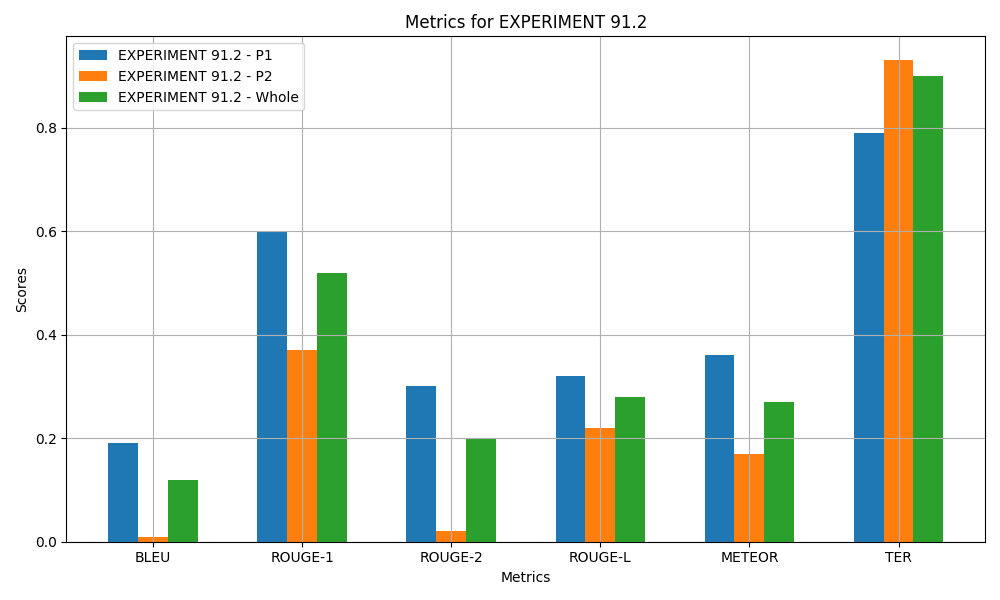
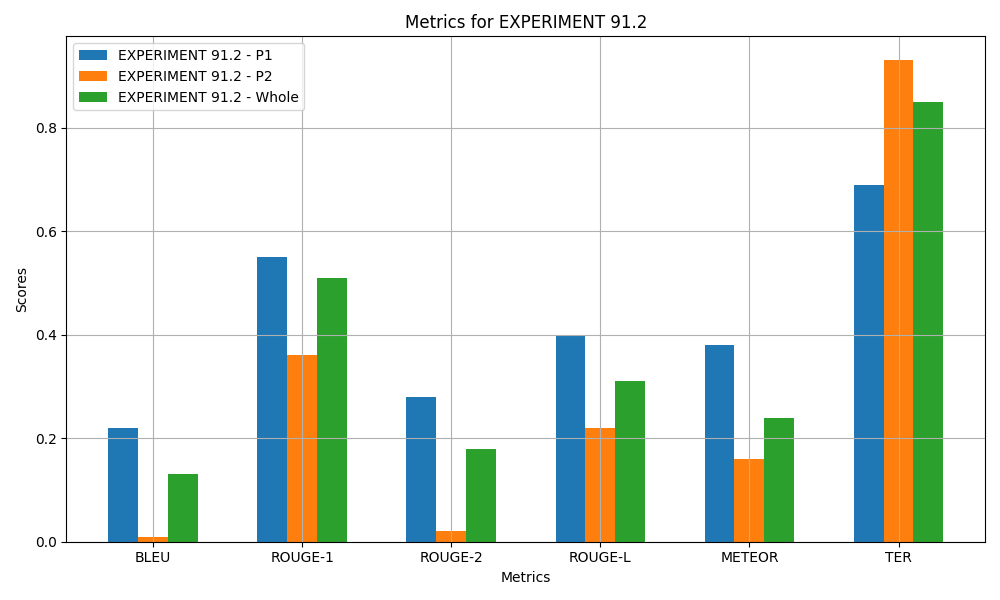
commit

diff --git a/src/utils/evaluation_algo.py b/src/utils/evaluation_algo.py
@@ -27,43 +27,45 @@ def calculate_ter(reference, hypothesis):
     score = ter.sentence_score(hypothesis, [reference])
     return round(score.score / 100, 2)
 
-# Modified Function: Ethical Alignment Score using Fine-tuned BERT for Social Work Ethics
 def evaluate_ethical_alignment(hypothesis):
     inputs = tokenizer(hypothesis, return_tensors='tf', truncation=True, padding=True, max_length=512)
     outputs = model(inputs)
     scores = outputs.logits[0].numpy()
-    ethical_score = scores[1]
+    ethical_score = 1 / (1 + np.exp(-scores[1]))
     return round(ethical_score, 2)
 
-# Modified Function: Sentiment Distribution Score using an Emotion Detection Model
 def evaluate_sentiment_distribution(hypothesis):
     emotion_analysis = emotion_model(hypothesis)
-    relevant_emotions = ['joy', 'sadness', 'anger', 'fear', 'trust', 'surprise']
-    emotion_scores = {score['label']: score['score'] for score in emotion_analysis[0] if score['label'] in relevant_emotions}
-    sentiment_score = sum(emotion_scores.values()) / len(emotion_scores) if emotion_scores else 0
-    return round(sentiment_score, 2)
+    emotion_scores = {score['label']: score['score'] for score in emotion_analysis[0] if score['label'] in RELEVANT_EMOTIONS}
+    if not emotion_scores:
+        return DEFAULT_SENTIMENT_SCORE
+    balanced_score = sum(emotion_scores.values()) / len(RELEVANT_EMOTIONS)
+    max_emotion = max(emotion_scores.values(), default=0)
+    min_emotion = min(emotion_scores.values(), default=0)
+    if abs(max_emotion - min_emotion) > SENTIMENT_BALANCE_PENALTY:
+        balanced_score *= 0.95
+    return round(balanced_score, 2)
 
-# New Function: Inclusivity Score using Lexicon
 def evaluate_inclusivity_score(hypothesis):
     words = word_tokenize(hypothesis.lower())
     inclusive_count = sum(1 for word in words if word in INCLUSIVITY_LEXICON)
-    inclusivity_score = inclusive_count / len(words) if len(words) > 0 else 0
-    return round(inclusivity_score, 2)
+    return round(inclusive_count / len(words), 2) if len(words) > 0 else 0
 
-# Modified Function: Complexity Score using Readability Metrics
 def evaluate_complexity_score(hypothesis):
     sentences = nltk.sent_tokenize(hypothesis)
     avg_sentence_length = sum(len(word_tokenize(sentence)) for sentence in sentences) / len(sentences) if sentences else 0
     total_words = sum(len(word_tokenize(sentence)) for sentence in sentences)
     cmudict = nltk.corpus.cmudict.dict()
-    
     def count_syllables(word):
         phonemes_list = cmudict.get(word.lower(), [[0]])
         return sum(1 for phoneme in phonemes_list[0] if isinstance(phoneme, str) and phoneme[-1].isdigit())
-    
     total_syllables = sum(count_syllables(word) for word in word_tokenize(hypothesis))
     fk_score = 206.835 - 1.015 * (total_words / len(sentences)) - 84.6 * (total_syllables / total_words) if total_words > 0 else 0
-    complexity_score = (avg_sentence_length + fk_score) / 2
+    complexity_score = max(
+        COMPLEXITY_MIN_SCORE, 
+        (COMPLEXITY_AVG_SENTENCE_LENGTH_WEIGHT * avg_sentence_length +
+         COMPLEXITY_FK_SCORE_WEIGHT * fk_score) / 2
+    )
     return round(complexity_score, 2)
 
 # Main function to evaluate all metrics for a given reference and hypothesis
@@ -77,5 +79,4 @@ def evaluate_all_metrics(reference, hypothesis):
     metrics['Sentiment Distribution'] = evaluate_sentiment_distribution(hypothesis)
     metrics['Inclusivity Score'] = evaluate_inclusivity_score(hypothesis)
     metrics['Complexity Score'] = evaluate_complexity_score(hypothesis)
-    
     return metrics

diff --git a/src/commonconst.py b/src/commonconst.py
@@ -62,16 +62,35 @@ WHOLE_TARGET_LENGTH = 200
 # Experiment IDs
 EXPERIMENT_IDS = [91, 91.0, 91.1, 91.2, 92.0, 92.1, 92.2]
 
-# Constants for new metrics
-ETHICAL_ALIGNMENT_THRESHOLD = 0.5
-CULTURAL_SENSITIVITY_LEXICON = set([
-    "diversity", "inclusion", "equality", "justice", "community", "multicultural",
-    "intersectional", "equity", "non-discriminatory", "cultural sensitivity"
-])
+# Constants for Ethical Alignment
+ETHICAL_ALIGNMENT_THRESHOLD = 0.7
+
+# Constants for Sentiment Distribution
+RELEVANT_EMOTIONS = [
+    'joy', 'sadness', 'anger', 'fear', 'trust', 'surprise', 'empathy', 'gratitude',
+    'hope', 'compassion', 'anticipation', 'frustration', 'disgust', 'relief',
+    'empowerment', 'vulnerability', 'resilience', 'satisfaction', 'solidarity'
+]
+SENTIMENT_BALANCE_PENALTY = 0.1  # Stricter penalty for extremes
+DEFAULT_SENTIMENT_SCORE = 0.15  # Reflects a slightly more positive baseline
+
+# Constants for Inclusivity Score
 INCLUSIVITY_LEXICON = set([
-    "they", "them", "their", "non-binary", "LGBTQ+", "accessible", "inclusive", "neurodivergent",
-    "underrepresented", "equitable", "affirming"
+    "equitable", "affirming", "accessible", "inclusive", "LGBTQ+", "allyship",
+    "intersectional", "anti-racist", "multicultural", "neurodivergent", 
+    "family-centered", "trauma-informed", "migrant-focused", "justice-involved",
+    "disability-friendly", "safe space", "age-inclusive", "bipoc", "gender-inclusive",
+    "dignity", "equity", "solidarity", "human rights", "diversity", "inclusion",
+    "justice", "compassion", "empathy", "non-discrimination", "anti-oppression",
+    "social well-being", "empowerment", "basic human needs", "advocacy", "collaboration"
 ])
+
+# Constants for Complexity Score
+COMPLEXITY_AVG_SENTENCE_LENGTH_WEIGHT = 0.6
+COMPLEXITY_FK_SCORE_WEIGHT = 0.4
+COMPLEXITY_MIN_SCORE = 5 
+COMPLEXITY_MAX_FK_SCORE = 100
+COMPLEXITY_MIN_FK_SCORE = 40
 
 # Utility function to load text data from CSV files
 def load_text_data(filepath):

diff --git a/main.py b/main.py
@@ -18,7 +18,6 @@ def main():
     for experiment_num in EXPERIMENT_IDS:
         reference_text = experiment_data.iloc[0]["Content"]
         processed_experiment = process_experiment(reference_text, experiment_num)
-
         processed_data.append([f"EXPERIMENT {experiment_num} - P1", processed_experiment['P1']])
         processed_data.append([f"EXPERIMENT {experiment_num} - P2", processed_experiment['P2']])
         processed_data.append([f"EXPERIMENT {experiment_num} - Whole", processed_experiment['Whole']])
@@ -31,7 +30,7 @@ def main():
     print(f"New experiment results saved to {EXPERIMENT_CSV_PATH}")
 
     # Step 3: Benchmarking (benchmark.py)
-    process_experiments()  # This now includes both original and extended metrics
+    process_experiments()
     print("Benchmarking complete. Results saved to the output directory.")
 
     # Step 4: Output Processing and Visualization (output_processing.py)
